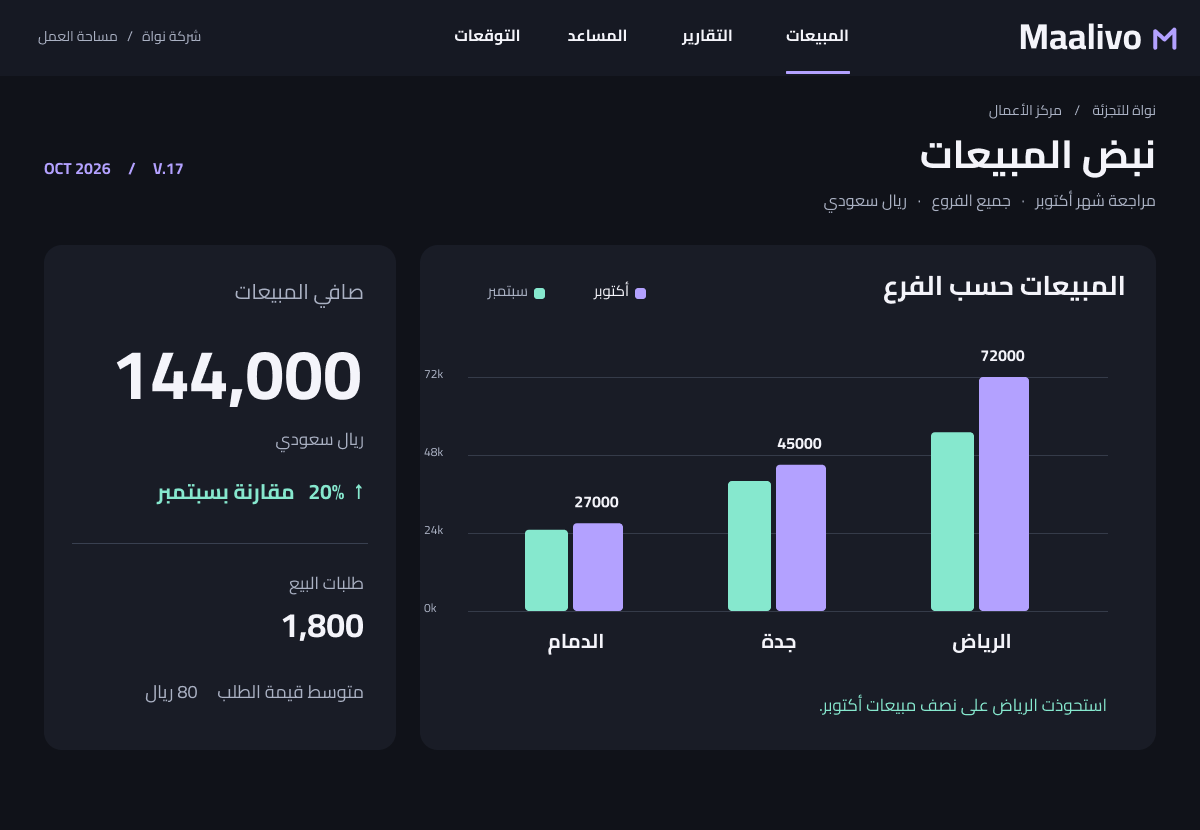
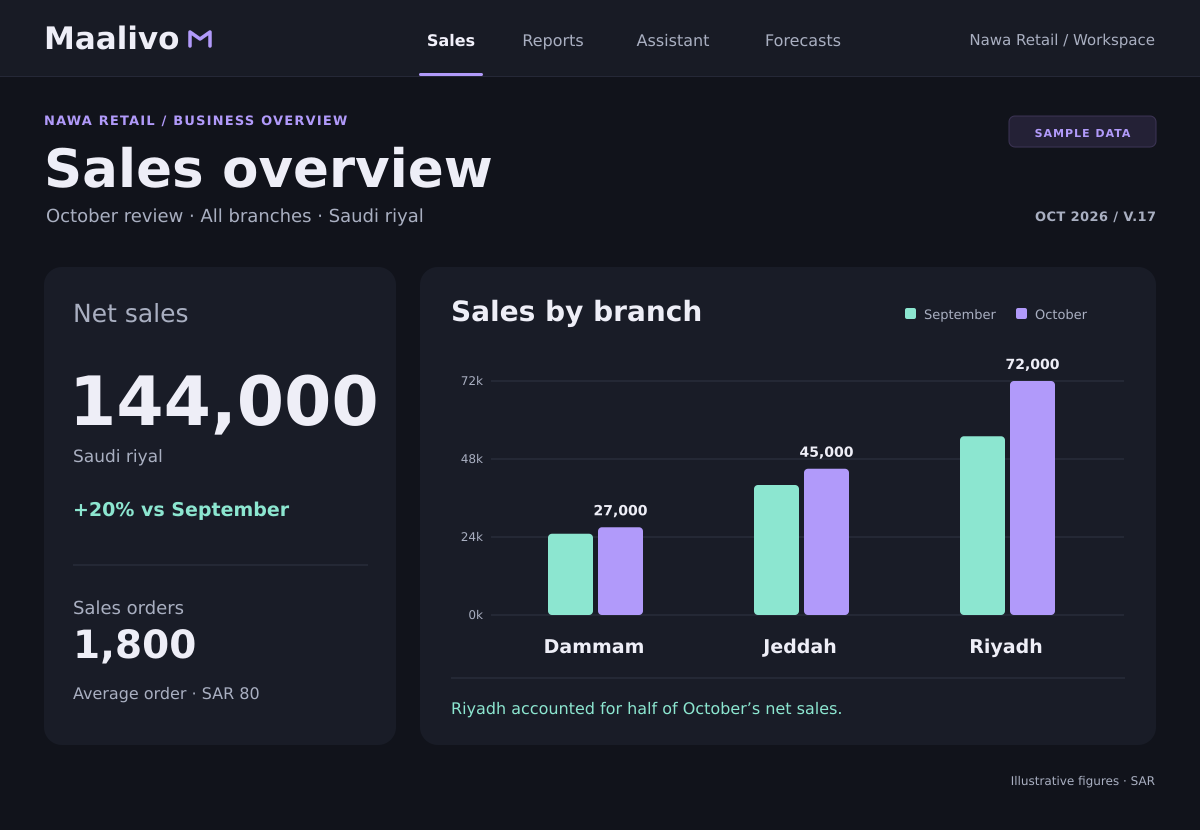
Replace Maalivo dashboard with English visual

diff --git a/README.md b/README.md
@@ -8,9 +8,9 @@
   <img src="https://img.shields.io/badge/Prototype-3F3862?style=flat-square" alt="Prototype" />
 </p>
 
-![Maalivo Arabic sales dashboard design with net sales and a branch comparison chart](./assets/dashboard.png)
+![Maalivo’s English sales dashboard design with net sales and branch comparisons](./assets/dashboard.png)
 
-*Maalivo’s Arabic dashboard design in Figma, shown with illustrative sales figures.*
+*Maalivo’s sales dashboard design in English, shown with illustrative sales figures.*
 
 ## What is Maalivo?
 
